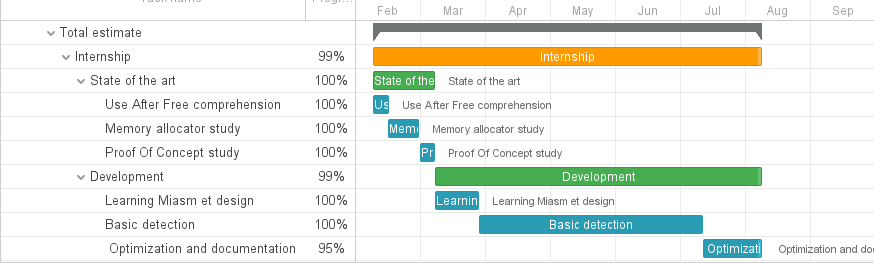
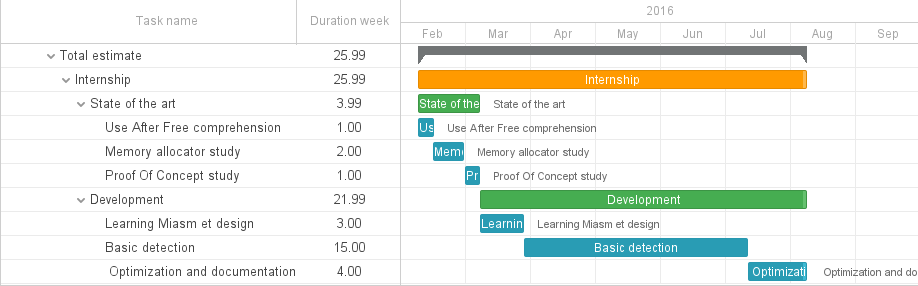
abstract: add duration in week for gantt diagramm

diff --git a/abstract.tex b/abstract.tex
@@ -105,7 +105,7 @@ memory space due to this simulation.
 \section*{Timeline}
 \begin{figure}[h]
 \begin{center}
-    \rotatebox{90}{\includegraphics[scale=0.46]{images/gantt-english.png}}\newline
+    \rotatebox{90}{\includegraphics[scale=0.43]{images/gantt-english.png}}\newline
     \caption{Timeline}
 \end{center}
 \end{figure}
